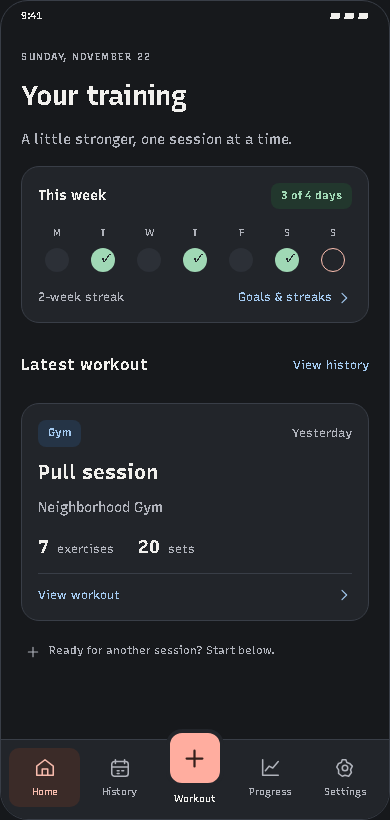
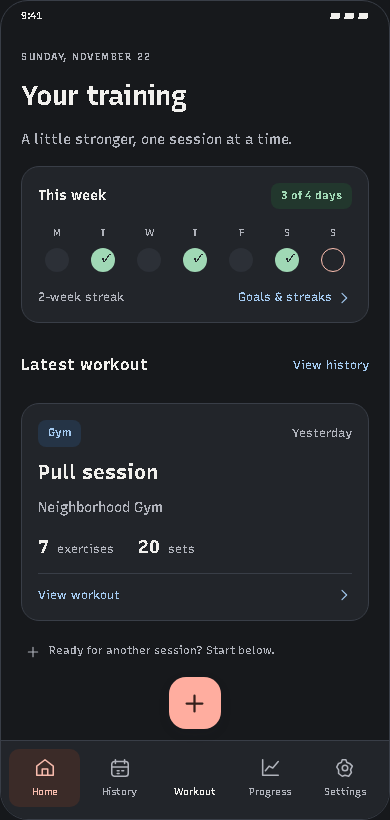
Float the workout action above the navigation bar with a clear gap

Changed region(s): [[0.4308, 0.8232, 0.5846, 0.9756], [0.0615, 0.8841, 0.1846, 0.9146]]

diff --git a/previews/navigation/navigation.css b/previews/navigation/navigation.css
@@ -3,5 +3,8 @@
 [data-theme=dark]{--bg:#17191c;--surface:#22252a;--ink:#f1f0ed;--muted:#b0b3bb;--line:#393e47;--soft:#2c3037;--coral:#ffad9f;--coral-ink:#ffc1b2;--coral-soft:#3d2c29;--info:#a3c9ef;--info-soft:#253446;--success:#a0d8b5;--success-soft:#22372d;--error:#ffabb0;--focus:#a3c9ef;color-scheme:dark}
 *{box-sizing:border-box}[hidden]{display:none!important}body{margin:0;background:var(--bg);color:var(--ink);font:14px/1.5 Recursive,system-ui,sans-serif}button,input{font:inherit;color:inherit}button{cursor:pointer;touch-action:manipulation;background:none;border:0}button:focus-visible,input:focus-visible,a:focus-visible{outline:3px solid var(--focus);outline-offset:3px}button:hover{filter:brightness(.97)}svg{width:22px;height:22px;fill:none;stroke:currentColor;stroke-width:1.7;stroke-linecap:round;stroke-linejoin:round;flex-shrink:0}.symbols{display:none}h1,h2,h3,p{margin:0}h1{font-size:clamp(30px,4vw,44px);line-height:1.15;letter-spacing:-1.5px;margin:8px 0 12px}h2{font-size:27px;line-height:1.2;letter-spacing:-.7px}h3{font-size:16px}.muted,.preview-heading>div>p:last-child{color:var(--muted)}.small{font-size:12px}.block{display:block;margin-top:4px}.eyebrow{font-size:10px;letter-spacing:1.5px;color:var(--muted);font-weight:700}.preview-heading{max-width:1050px;margin:auto;padding:32px 24px 24px;display:flex;justify-content:space-between;gap:32px;align-items:center}.preview-controls{display:grid;gap:12px;font-size:12px}.preview-controls>button{padding:10px 16px;border:1px solid var(--line);border-radius:10px;background:var(--surface);min-height:44px}.preview-controls label{display:flex;gap:8px;align-items:center;min-height:44px}.preview-controls input{width:18px;height:18px;accent-color:var(--coral-ink)}a{color:var(--info)}.study{max-width:920px;display:grid;grid-template-columns:390px 1fr;gap:64px;align-items:start;margin:0 auto;padding:0 24px 48px}.phone{position:relative;display:grid;grid-template-rows:28px minmax(0,1fr) auto;width:100%;height:820px;border:1px solid var(--line);border-radius:28px;background:var(--bg);overflow:hidden;box-shadow:0 16px 48px #20232b0a}.status{display:flex;justify-content:space-between;align-items:center;padding:0 20px;font-size:10px;font-weight:700}.viewport{overflow:auto;overscroll-behavior:contain;scrollbar-width:thin;padding:20px 20px 32px}.viewport>section{display:grid;gap:16px;outline:0}.viewport h2:focus{outline:0}.card{display:grid;gap:16px;background:var(--surface);border:1px solid var(--line);border-radius:18px;padding:16px;text-align:left;width:100%}.row{display:flex;align-items:center;justify-content:space-between;gap:12px}.pill{display:inline-flex;justify-self:start;align-items:center;background:var(--coral-soft);color:var(--coral-ink);padding:5px 10px;border-radius:8px;font-size:11px;font-weight:700}.pill.info{color:var(--info);background:var(--info-soft)}.pill.success{color:var(--success);background:var(--success-soft)}.week{display:grid;grid-template-columns:repeat(7,1fr);gap:8px}.week>span{display:grid;justify-items:center;gap:8px;color:var(--muted);font-size:10px}.week i{display:block;width:24px;height:24px;border-radius:50%;background:var(--soft)}.week i.done{background:var(--success);position:relative}.week i.done:after{content:'✓';color:var(--surface);position:absolute;inset:0;text-align:center;font-size:15px}.week i.today{border:1px solid var(--coral-ink);background:transparent}.linkish{color:var(--info);font-weight:600;font-size:12px}.linkish svg{width:16px;height:16px;vertical-align:middle}.section-heading{display:flex;justify-content:space-between;align-items:center;gap:8px;margin-top:4px}.text-action{color:var(--info);min-height:44px;padding:8px 0;font-size:12px}.latest{gap:12px}.workout-title{font-size:20px;line-height:1.3}.metrics{display:flex;gap:24px;color:var(--muted);font-size:12px;padding:4px 0 12px;border-bottom:1px solid var(--line)}.metrics b{color:var(--ink);font-size:18px;margin-right:4px}.home-hint{display:flex;align-items:center;gap:8px;font-size:11px;color:var(--muted);padding:4px}.home-hint svg{width:16px}.resume{border-color:var(--coral-ink);gap:12px}.resume strong{font-size:17px}.bottom-nav{display:grid;grid-template-columns:repeat(5,minmax(0,1fr));gap:4px;padding:8px 8px 12px;border-top:1px solid var(--line);background:var(--surface);position:relative}.bottom-nav>button{display:flex;flex-direction:column;align-items:center;justify-content:center;gap:5px;min-width:0;min-height:58px;color:var(--muted);font-size:10px;border-radius:10px}.bottom-nav>button[aria-current=page]{color:var(--coral-ink);background:var(--coral-soft)}.bottom-nav .workout-nav{margin-top:-20px;color:var(--ink);gap:4px;background:none}.plus-disc{display:grid;place-items:center;width:50px;height:50px;border-radius:16px;background:var(--coral);color:#35201c;border:4px solid var(--surface);box-sizing:content-box}.plus-disc svg{width:27px;height:27px;stroke-width:2}.design-notes{padding-top:48px;display:grid;gap:20px;line-height:1.8}.design-notes h2{font-size:28px}.design-notes p,.design-notes ol{color:var(--muted)}.design-notes ol{margin:0;padding-left:20px;display:grid;gap:12px}.note{border-top:1px solid var(--line);padding-top:20px}.note strong{font-size:13px}.note p{font-size:12px;margin-top:8px}.history-item{display:flex;justify-content:space-between;align-items:center;gap:12px}.list-heading{margin-top:4px}.calendar{display:grid;grid-template-columns:repeat(7,1fr);gap:6px;text-align:center}.calendar>span{font-size:11px;color:var(--muted);padding:4px}.calendar button{min-height:34px;font-size:11px;border-radius:9px;position:relative;cursor:default}.calendar button.logged{color:var(--success);background:var(--success-soft);font-weight:700}.calendar button.current{outline:1px solid var(--coral-ink)}.destination{grid-template-columns:36px 1fr 20px;align-items:center;gap:12px;min-height:96px}.destination-icon{display:grid;place-items:center;color:var(--info);background:var(--info-soft);border-radius:10px;width:36px;height:40px}.destination>svg{width:18px;color:var(--info)}.appearance{display:flex;gap:8px}.appearance button{flex:1;min-height:44px;border-radius:10px;background:var(--soft)}.appearance button[aria-pressed=true]{color:var(--coral-ink);background:var(--coral-soft);outline:1px solid var(--coral-ink)}.back{display:flex;align-items:center;gap:4px;justify-self:start;min-height:44px;color:var(--muted);padding:0;font-size:12px}.back svg{width:16px}.action{min-height:48px;border-radius:12px;padding:12px 16px;font-weight:700;width:100%}.primary{color:#35201c;background:var(--coral)}.detail-metrics{font-size:13px;color:var(--muted)}.detail-metrics span{padding:0 8px}.group-list{display:grid;gap:12px}.group{border-top:1px solid var(--line);padding-top:4px}.group>button{display:flex;align-items:center;justify-content:space-between;width:100%;min-height:60px;text-align:left;padding:8px 0;font-size:14px;font-weight:700}.group>button small{font-size:11px;color:var(--muted);font-weight:400;display:block;margin-top:3px}.group-items{display:grid;gap:8px;padding-bottom:12px}.exercise-row{display:flex;align-items:center;justify-content:space-between;gap:12px;min-height:64px;background:var(--surface);border:1px solid var(--line);border-radius:12px;padding:12px;text-align:left;width:100%}.exercise-row>span{min-width:0}.exercise-row strong{font-size:13px}.exercise-row small{display:block;color:var(--muted);font-size:11px;margin-top:4px}.exercise-row svg{width:16px;color:var(--info)}.summary-row{padding:12px 0;border-bottom:1px solid var(--line);font-size:13px}.summary-row p{margin-top:6px;color:var(--muted);font-size:12px}.phone footer{padding:12px 16px 20px;border-top:1px solid var(--line);background:var(--surface)}label{font-size:12px;color:var(--muted)}input:not([type=checkbox]){min-height:48px;padding:10px;border:1px solid var(--line);border-radius:10px;background:var(--bg);width:100%;min-width:0}.set-row{display:grid;grid-template-columns:24px 1fr 1fr;gap:12px;align-items:center;padding-top:12px}.set-row>span{color:var(--muted);font-size:12px}.set-row label{display:grid;gap:5px;font-size:10px}.error{color:var(--error);font-size:12px}.toast{position:absolute;bottom:84px;left:16px;right:16px;background:var(--success-soft);color:var(--success);font-size:12px;padding:0 14px;border-radius:10px;pointer-events:none;z-index:2}.toast:not(:empty){padding:12px 14px;border:1px solid var(--success)}.phone[data-focused=true] .toast{bottom:90px}.report{border-color:var(--info)}
 @media(max-width:760px){.preview-heading{padding:20px 16px;display:block}.preview-heading h1{font-size:28px;letter-spacing:-1px}.preview-heading h1 br{display:none}.preview-heading p{font-size:11px}.preview-controls{display:flex;flex-wrap:wrap;align-items:center;gap:8px 16px;margin-top:12px}.preview-controls>a{display:none}.preview-controls>button{font-size:11px}.study{grid-template-columns:minmax(0,390px);justify-content:center;gap:24px;padding:0 12px 32px}.phone{height:760px;border-radius:22px}.viewport{padding:16px 16px 24px}.design-notes{padding-top:8px;font-size:13px}.design-notes h2{font-size:23px}.bottom-nav{gap:0;padding-left:4px;padding-right:4px}.bottom-nav>button{font-size:9px}.plus-disc{width:46px;height:46px}}
+.bottom-nav .workout-nav{position:relative;margin-top:0;justify-content:flex-end;padding-bottom:8px}
+.bottom-nav .plus-disc{position:absolute;left:50%;bottom:calc(100% + 20px);transform:translateX(-50%);width:52px;height:52px;border:0;border-radius:17px;box-sizing:border-box;box-shadow:0 4px 12px #20232b18}
+.phone:not([data-focused=true]) .viewport{padding-bottom:100px}
 .phone footer .toast,.phone footer .toast:not(:empty){position:static;min-height:20px;margin-bottom:8px;padding:0;border:0;background:none;color:var(--success)}
 @media(prefers-reduced-motion:reduce){*{scroll-behavior:auto!important}}
